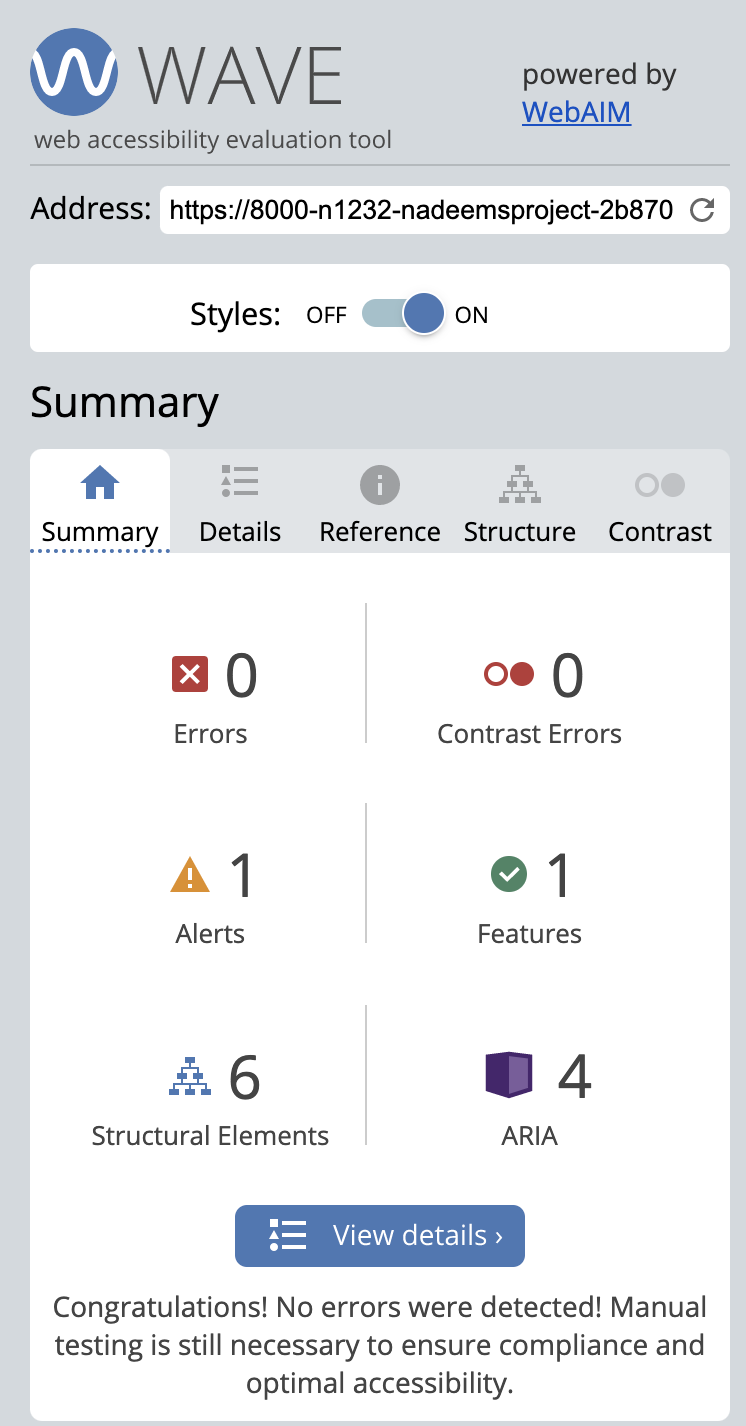
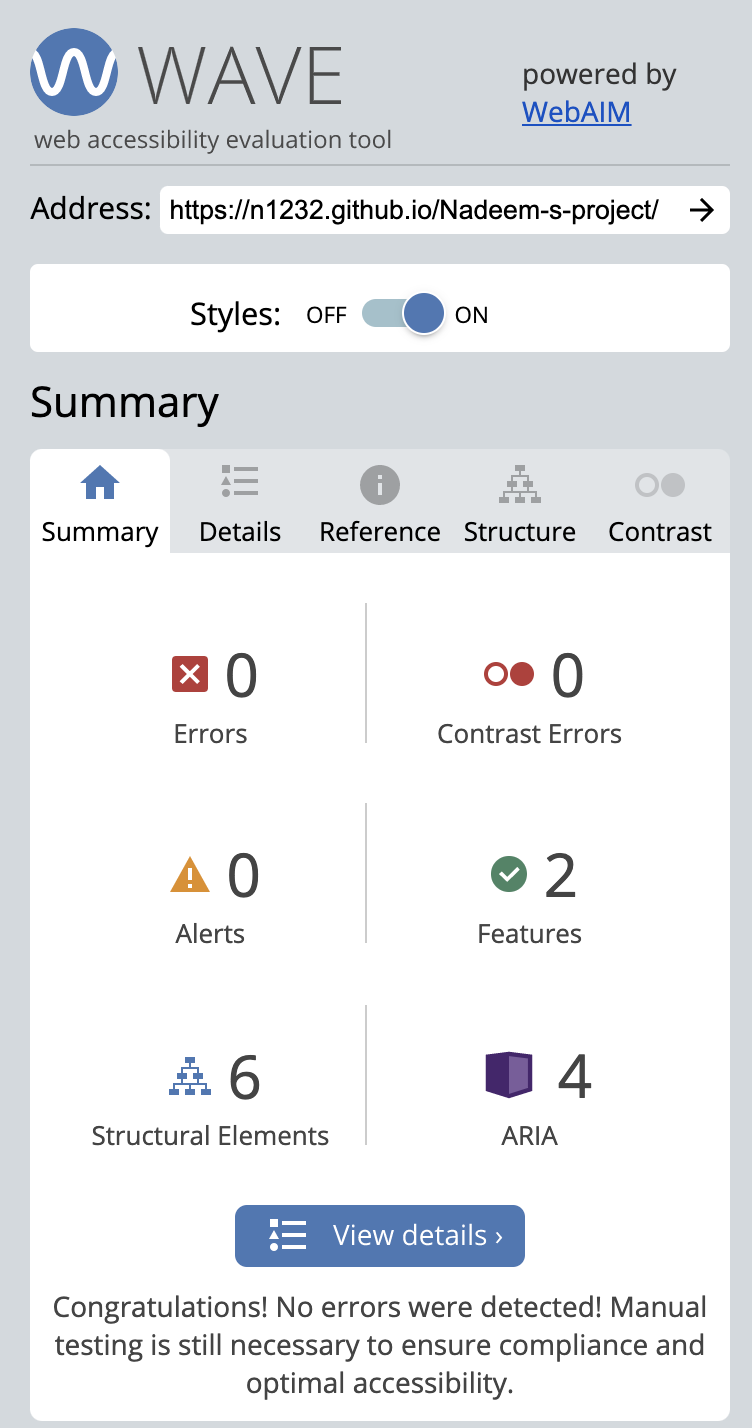
Finished version of project

diff --git a/balanced_diet.html b/balanced_diet.html
@@ -12,7 +12,7 @@
    </head>
    <body>
       <!-- Logo and navigation menu -->
-      <navbar id= "navbar">
+      <div id= "nav_bar">
          <a href= "index.html">
             <h1 id= "logo">
                Eating Right
@@ -39,7 +39,7 @@
          </nav>
          <!-- Logo and navigation menu end -->
          <!-- Balanced diet page image-->
-      </navbar>
+      </div>
       <div class= "balanced_diet_page_image">
          <img src="assets/images/website_images/balanced_diet_page_image.jpeg" alt="Italian Trulli">
       </div>

diff --git a/budget_dieting.html b/budget_dieting.html
@@ -12,7 +12,7 @@
    </head>
    <body>
       <!-- Logo and navigation menu -->
-      <navbar id= "navbar">
+      <div id= "navbar">
          <a href= "index.html">
             <h1 id= "logo">Eating Right</h1>
          </a>
@@ -35,7 +35,7 @@
                </li>
             </ul>
          </nav>
-      </navbar>
+      </div>
       <!-- Logo and navigation menu end -->
       <br> <br> <br><br>
       <section id= "page_formatting">

diff --git a/healthy_recipes.html b/healthy_recipes.html
@@ -12,7 +12,7 @@
    </head>
    <body>
       <!-- Logo and navigation menu -->
-      <navbar id= "navbar">
+      <div id= "navbar">
          <a href= "index.html">
             <h1 id= "logo">Eating Right</h1>
          </a>
@@ -35,7 +35,7 @@
                </li>
             </ul>
          </nav>
-      </navbar>
+      </div>
       <!-- Logo and navigation menu end -->
       <br><br><br><br>
       <section id= "page_formatting">

diff --git a/index.html b/index.html
@@ -12,7 +12,7 @@
    </head>
    <body>
       <!-- Logo and navigation menu -->
-      <navbar id= "navbar">
+      <div id= "navbar">
          <a href= "index.html">
             <h1 id= "logo">Eating Right</h1>
          </a>
@@ -35,7 +35,7 @@
                </li>
             </ul>
          </nav>
-      </navbar>
+      </div>
       <!-- Logo and navigation menu end-->
       <!-- Hero page image -->
       <div id= "hero_image">

diff --git a/beef_stew.html b/beef_stew.html
@@ -12,7 +12,7 @@
    </head>
    <body>
       <!-- Logo and navigation menu -->
-      <navbar id= "navbar">
+      <div id= "navbar">
          <a href= "index.html">
             <h1 id= "logo">Eating Right</h1>
          </a>
@@ -35,7 +35,7 @@
                </li>
             </ul>
          </nav>
-      </navbar>
+      </div>
       <!-- Logo and navigation menu end -->
       <!-- Return button -->
       <br> <br> <br><br>

diff --git a/tuna_spaghetti.html b/tuna_spaghetti.html
@@ -12,7 +12,7 @@
    </head>
    <body>
       <!-- Logo and navigation menu -->
-      <navbar id= "navbar">
+      <div id= "navbar">
          <a href= "index.html">
             <h1 id= "logo">Eating Right</h1>
          </a>
@@ -35,7 +35,7 @@
                </li>
             </ul>
          </nav>
-      </navbar>
+      </div>
       <br> <br> <br><br>
       <!-- Logo and navigation menu end -->
       <!-- Return button -->

diff --git a/lentil_soup.html b/lentil_soup.html
@@ -12,7 +12,7 @@
    </head>
    <body>
       <!-- Logo and navigation menu -->
-      <navbar id= "navbar">
+      <div id= "navbar">
          <a href= "index.html">
             <h1 id= "logo">Eating Right</h1>
          </a>
@@ -35,7 +35,7 @@
                </li>
             </ul>
          </nav>
-      </navbar>
+      </div>
       <!-- Logo and navigation menu end-->
       <br> <br> <br><br>
       <!-- Return button -->

diff --git a/assets/css/style.css b/assets/css/style.css
@@ -205,7 +205,7 @@
 }
 /* 992px up to 1200px */
  @media only screen and (max-width: 992px) {
-     #navbar{
+     #nav_bar{
          display: flex;
          flex-direction: column;
          align-items: center;

diff --git a/README.md b/README.md
@@ -47,16 +47,14 @@ the website's various pages with ease which is the value it will provide to the 
 - The balanced diet page includes a picture of an image representing balance which is consistent with the theme of the page which is a balanced diet
 - The value to the user is that it may make the webpage visually appealing for them and it may also help to grab their attention
 
-![This is an image](/assets/images/readme_images/balance.png)
+![This is an image](/assets/images/readme_images/balanced_diet_page_image.png)
 
 #### - Balanced diet information section: 
 
 - This section provides the user with information on a balanced diet
 - The value to the user is that it may help them to better understand what a balanced diet is and consequently may help them to maintain a more balanced diet in their life
 
-![This is an image](/assets/images/readme_images/balanced_diet_information_1.png)
-![This is an image](/assets/images/readme_images/balanced_diet_information_2.png)
-![This is an image](/assets/images/readme_images/balanced_diet_information_3.png)
+![This is an image](/assets/images/readme_images/balanced_diet_information.png)
 
  #### - Recipe finder page:
 
